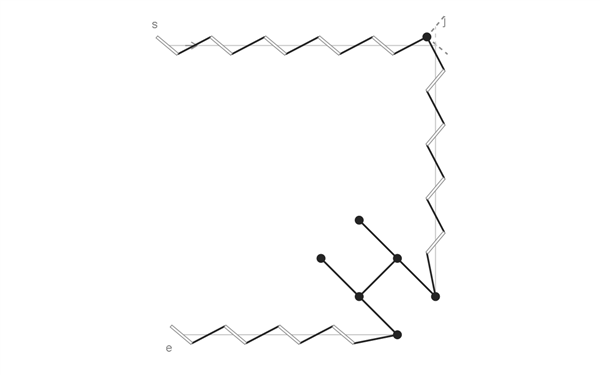
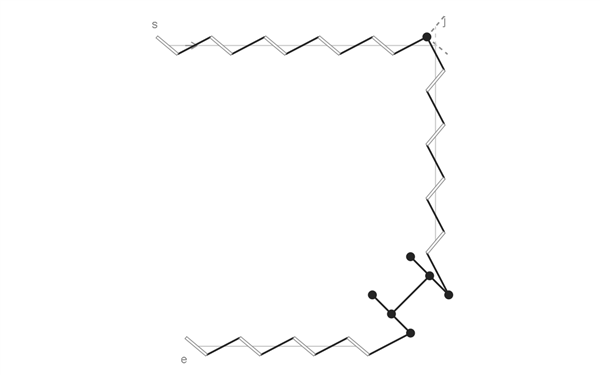
Separate stitching observations from cases and refine H joins

diff --git a/examples/counter_examples/README.md b/examples/counter_examples/README.md
@@ -1,6 +1,6 @@
 # Counter-examples
 
-Supporting figures for [the Sellier study](../../docs/counter_examples/HERMES_SELLIER_skeleton.md). Source photograph: `hermies_sellier.webp`, supplied by Anthony.
+Sources and reproducible figures for [stitching examples](../../docs/counter_examples/EXAMPLES_skeleton.md): observed constructions and worked cases. Sellier source photograph: `hermies_sellier.webp`, supplied by Anthony.
 
 | Figure | Catalog ID | Construction |
 | --- | --- | --- |
@@ -8,7 +8,7 @@ Supporting figures for [the Sellier study](../../docs/counter_examples/HERMES_SE
 | `sellier-wallet-autostitch` | `ILL-SELLIER-WALLET` | Static detail: five top slits, four side slits and four bottom slits; shared corner hole and six H circles. |
 | `sellier-wallet-diagonal` | `ILL-SELLIER-WALLET-DIAGONAL` | Static comparison: the same ordinary slit counts and H, with one shared diagonal slit at the top corner. |
 
-All use a $600\times375$ canvas. The corner GIF loops with a two-second final thread hold. Both reduced wallets are static SVG/PNG at the same scale. Geometry and sequence come from `scenes.mjs`; parameters live in `tests/cases.json`.
+All use a $600\times375$ canvas. The corner GIF loops with a two-second final thread hold. Both case diagrams are static SVG/PNG at the same scale. Geometry and sequence come from `scenes.mjs`; parameters live in `tests/cases.json`.
 
 ## Reproduce
 
@@ -26,8 +26,8 @@ Outputs: `examples/counter_examples/assets/`. Temporary frames: `output/counter_
 
 - Common profile: $p=3\,\mathrm{mm}$, slit length $1.5\,\mathrm{mm}$, round-hole diameter $0.5\,\mathrm{mm}$.
 - Reference corner: three nominal intervals per arm; ordinary slit axes $-40^\circ$ and $-50^\circ$ in Cartesian coordinates; shared axis $-45^\circ$. Its axis is the diagonal seen in the annotated photograph. Connect each slit's positive tip to the next slit's negative tip; the shown face is already encoded in the slit axes.
-- Autostitch wallet: signed local lean $-40^\circ$. The incoming minus-tip and outgoing plus-tip locate the shared hole. The top endpoint and H anchors are placed by integer nominal steps from the virtual centres; the bottom row uses integer steps from the left H anchor.
-- Diagonal wallet: reuse the reference corner's slit axes and thread connections. Keep the H, right-row centres and bottom-row centres fixed. Place the corner slit at the outgoing virtual centre and set the top guide from nominal steps; this slightly raises the top guide while retaining nominal gaps throughout.
-- H: two legs, three circular openings per leg, width $3\,\mathrm{mm}$, height $6\,\mathrm{mm}$, rotated $45^\circ$. Connectivity is drawn explicitly; it is not a sewing itinerary.
+- Autostitch case: signed local lean $-40^\circ$ throughout. The incoming minus-tip and outgoing plus-tip locate the shared hole. Integer nominal steps determine the top and right rows.
+- Reference case: rear-style top lean $-40^\circ$ and front-style vertical lean $+40^\circ$. The shared slit replaces the outgoing virtual centre; nominal steps determine the top row.
+- H: two legs, three circular openings per leg, width and height $3\,\mathrm{mm}$, rotated $45^\circ$. Each join continues an ordinary thread line until it meets the circle of radius $p$ about the neighbouring slit centre. The H position follows the incident slit lean; both cases retain the same H dimensions and nominal spacing. The bottom row starts from the corresponding nominal join.
 
-The study's reconstruction assumptions are collected in its document. These figures use analytic geometry, not a native plugin run. The diagonal-slit alternative is deliberately distinct from A6; the H remains an external decoration.
+Interpretation notes are collected in the examples document. These figures use analytic geometry, not a native plugin run. The diagonal-slit alternative is distinct from A6; the H remains external decoration rather than evidence of support for arbitrary fixed decorative holes.

diff --git a/docs/counter_examples/EXAMPLES_skeleton.md b/docs/counter_examples/EXAMPLES_skeleton.md
@@ -1,0 +1,42 @@
+# Stitching examples
+
+## Observed constructions
+
+### Shared diagonal corner slit
+
+- One real diagonal slit joins the two arms at the vertex
+- Its angle can differ from the ordinary slits on either arm, changing the two adjoining stitches
+- In the illustration, the shared slit bisects the corner
+
+![Shared diagonal slit and its two adjoining stitches](../../examples/counter_examples/assets/sellier-diagonal-corner.gif)
+
+### Mixed front- and rear-style runs
+
+- In the Sellier reconstruction, the top run uses rear-style slit lean; the vertical run uses front-style slit lean
+- Their ordinary slit axes remain nearly parallel across the turn, although their lean relative to each arm differs
+
+## Cases
+
+### Hermès Sellier wallet
+
+<img src="../../examples/counter_examples/hermies_sellier.webp" width="300" alt="Sellier wallet with a diagonal upper corner and decorative H at the lower corner">
+
+- Shared diagonal slit at the upper corner; decorative H at the lower corner
+- The diagrams represent the H with six circular openings
+- The stitches joining its legs continue the ordinary thread angle, with nominal centre spacing and no residual
+
+**Reference construction** — mixed slit lean and a shared diagonal corner slit.
+
+![Sellier case with the reference corner construction](../../examples/counter_examples/assets/sellier-wallet-diagonal.png)
+
+**Autostitch construction** — consistent rear-style lean and a round hole where the virtual slit tips meet.
+
+![Sellier case with the Autostitch corner construction](../../examples/counter_examples/assets/sellier-wallet-autostitch.png)
+
+### Interpretation
+
+- Slit axes are inferred from the thread; the balanced corner angle is an assumption
+- Front/rear style describes the slit lean here, not proof of which face was punched
+- Dimensions are illustrative; the case uses $p=3\,\mathrm{mm}$
+
+[Sources and reproduction](../../examples/counter_examples/README.md)
